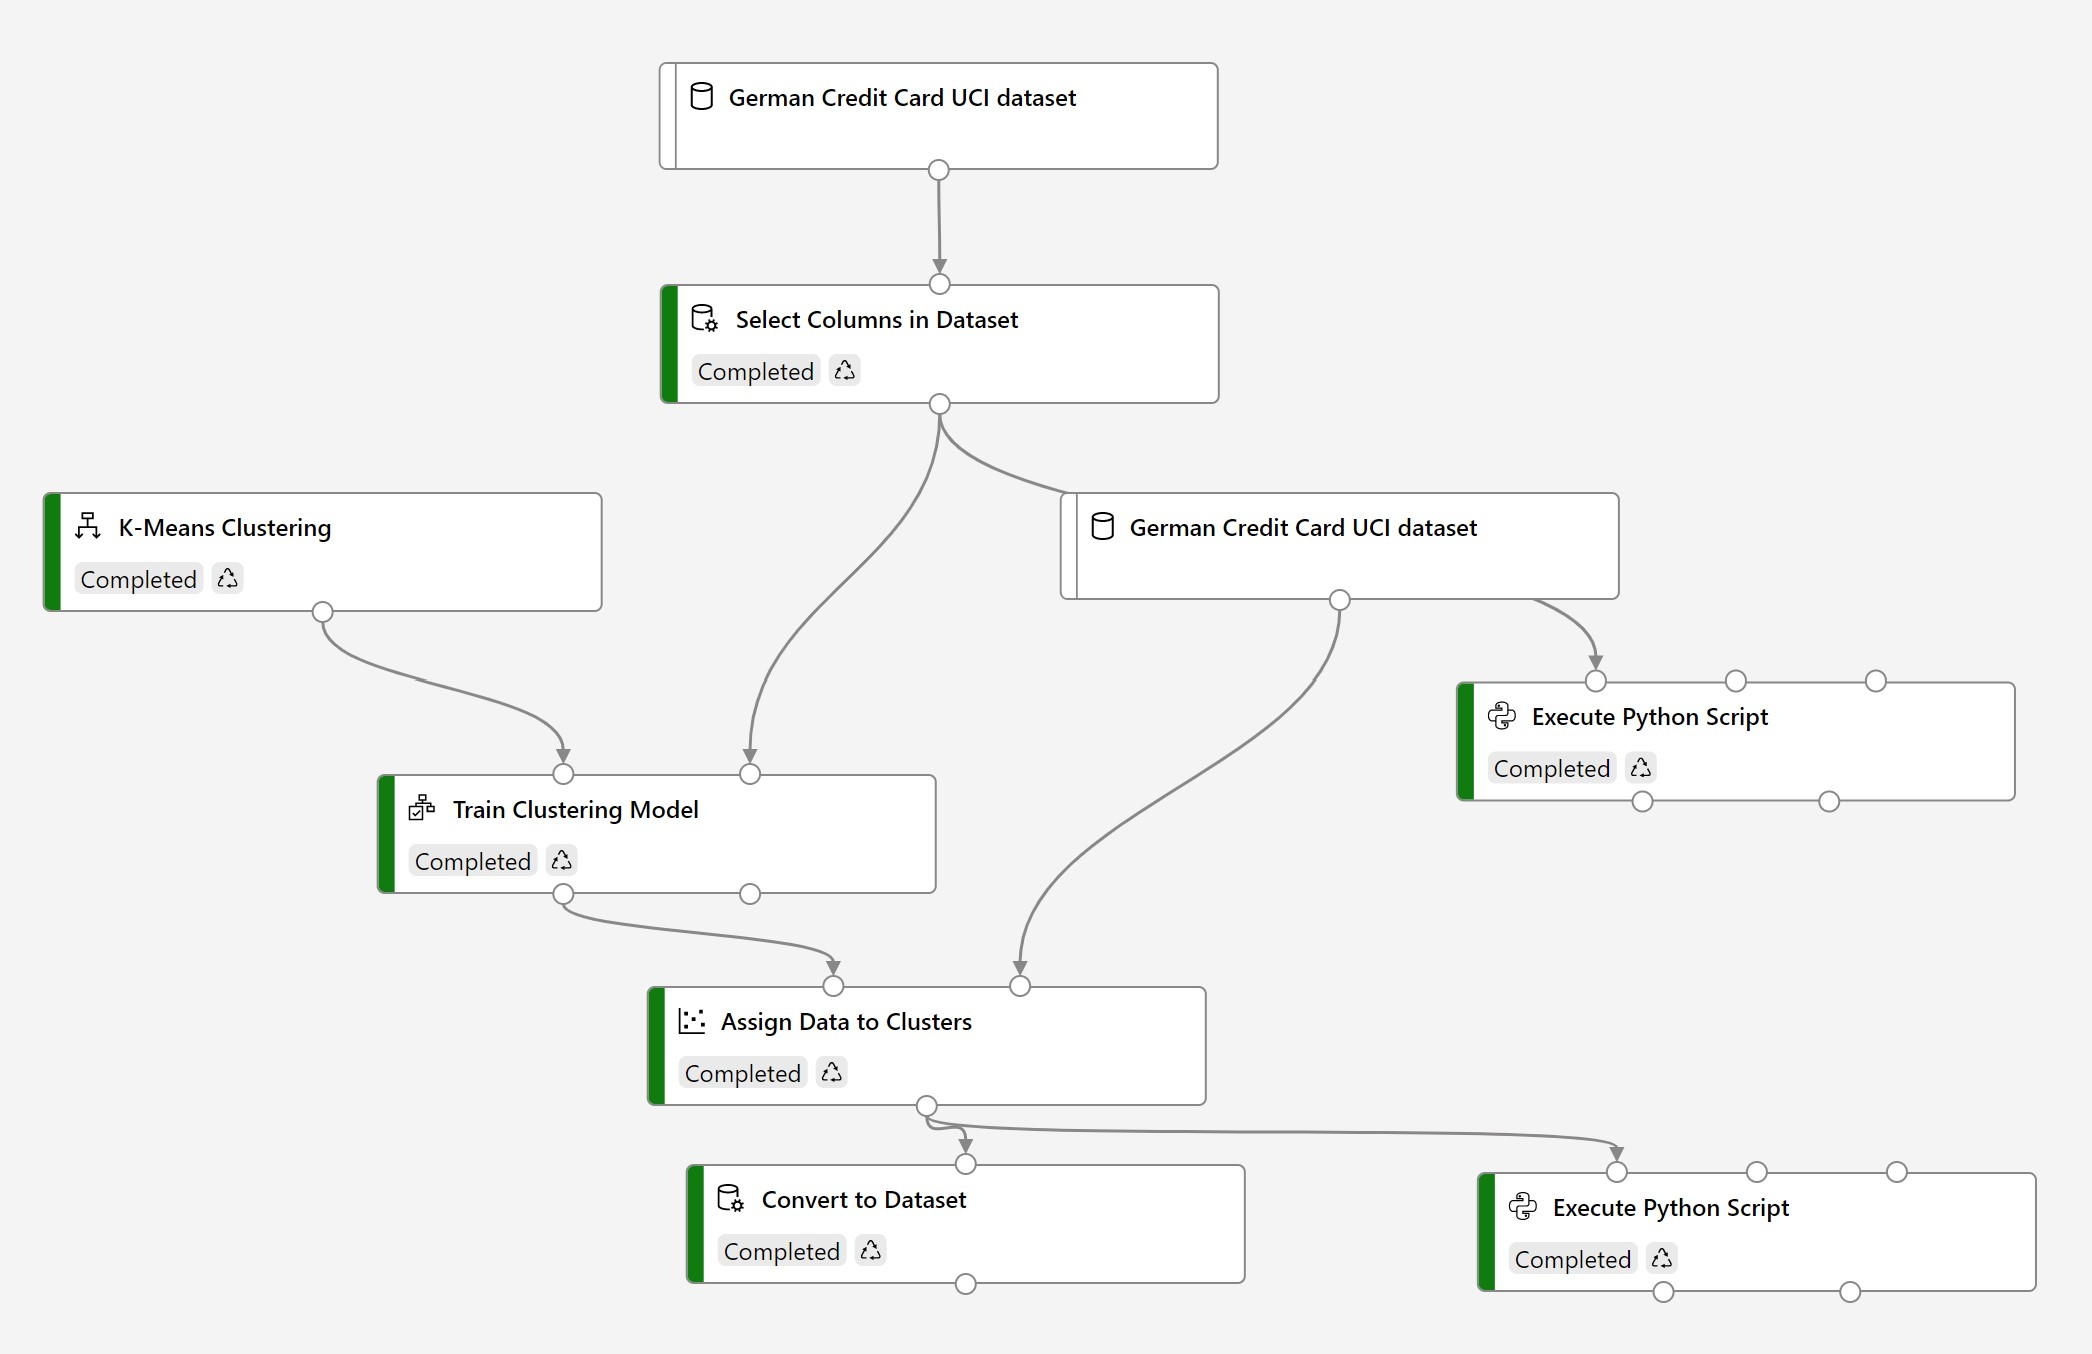
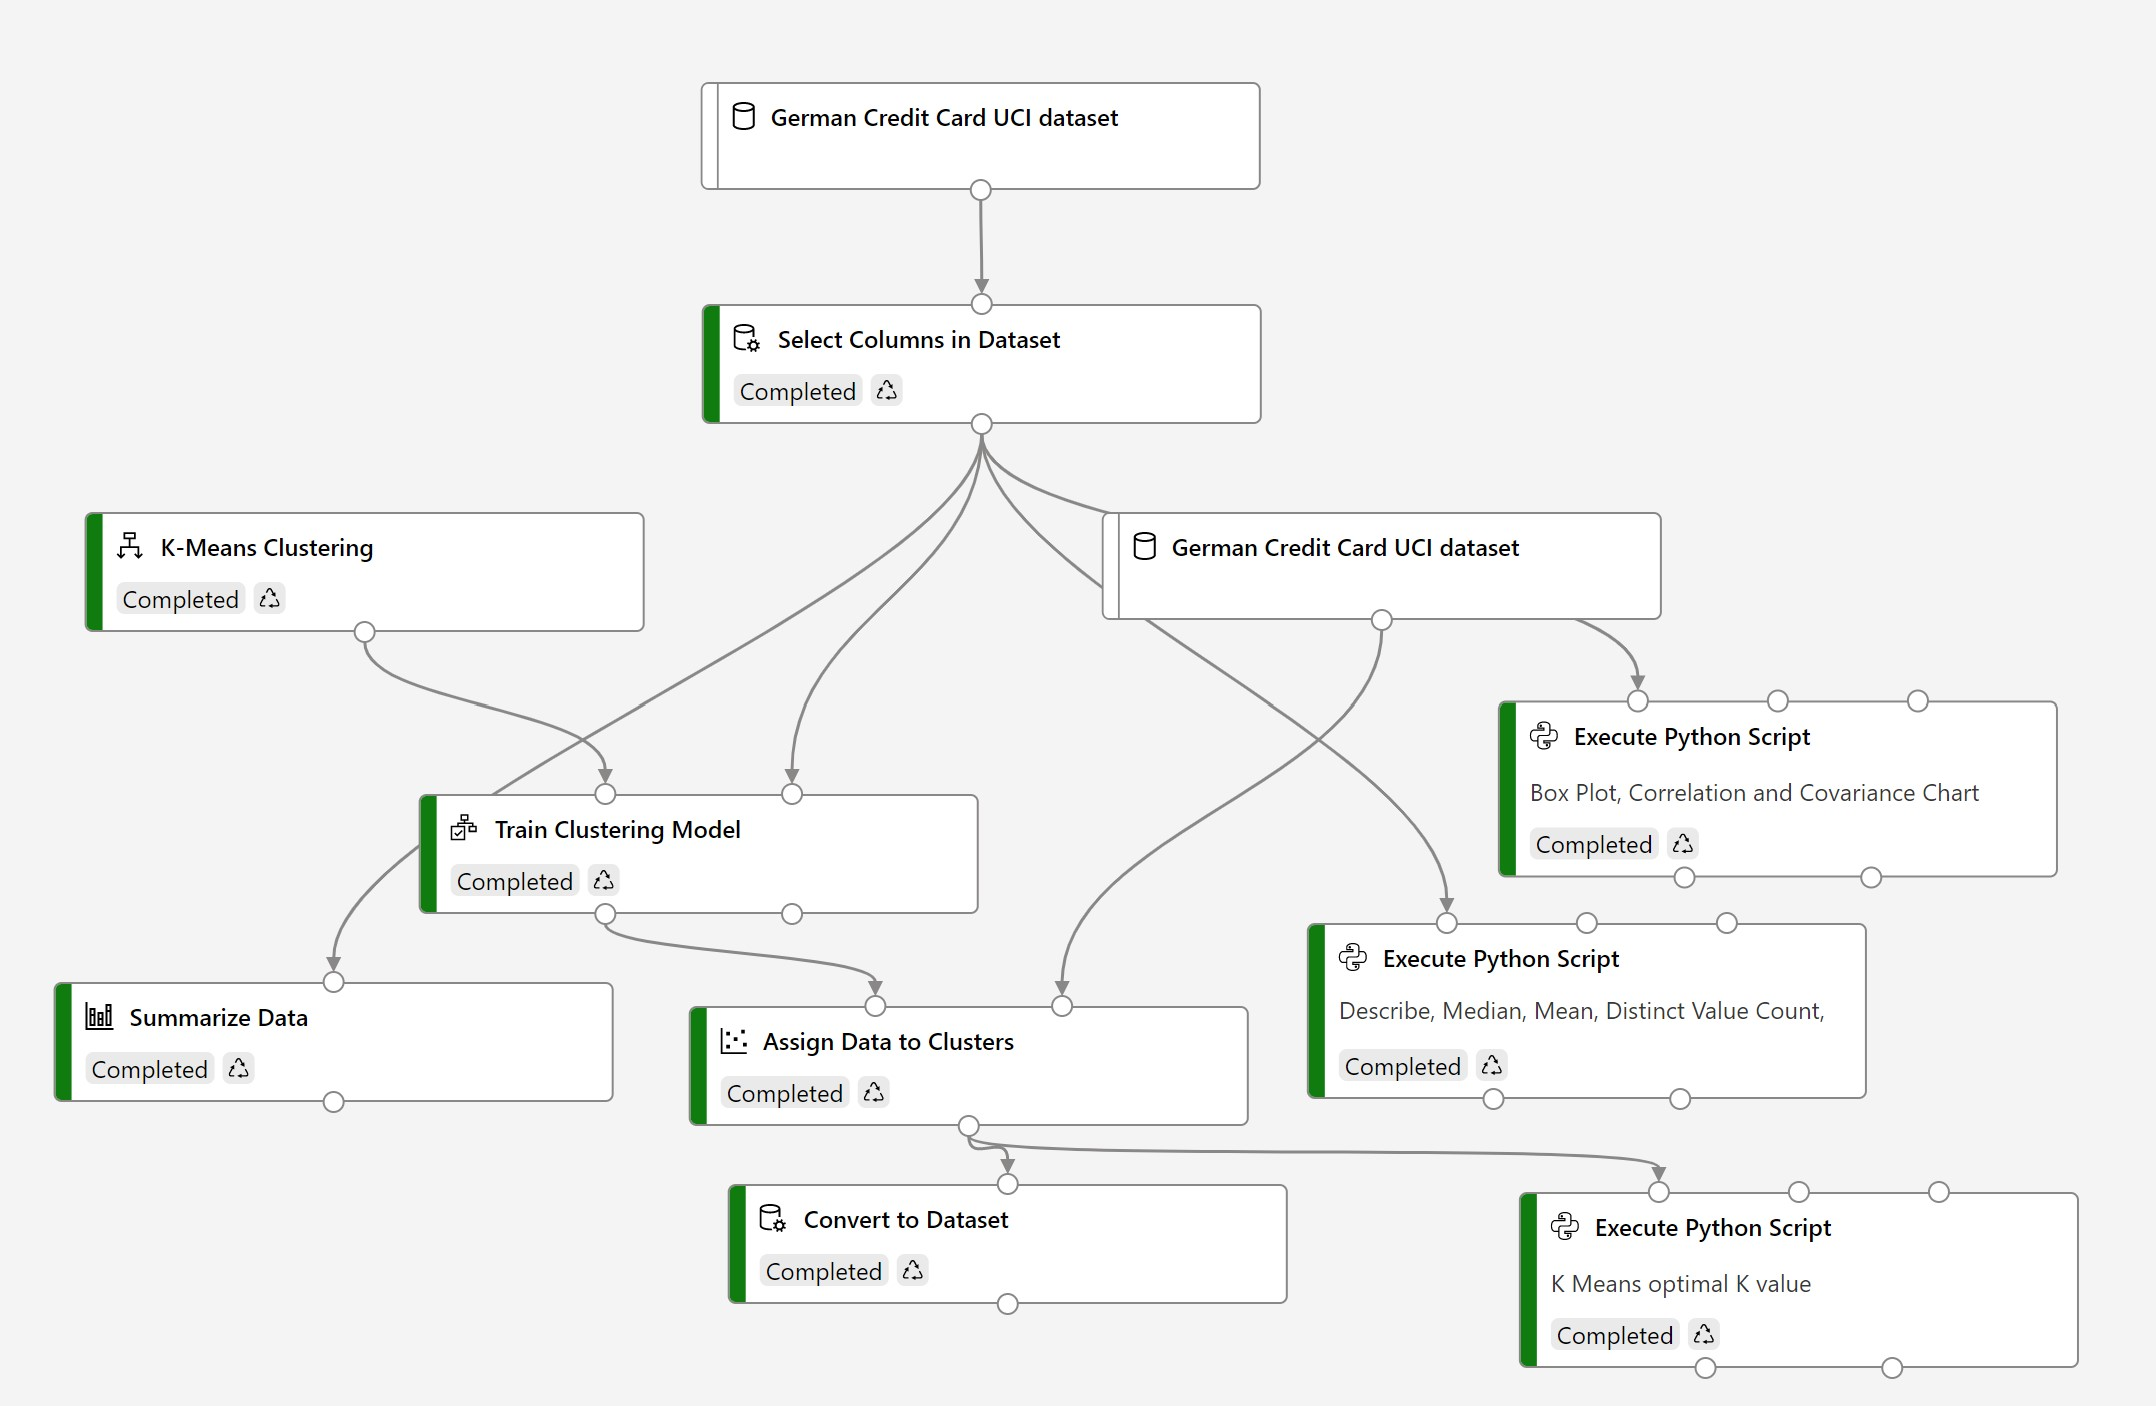
updated

diff --git a/AzureML/azuremldesigncluster.md b/AzureML/azuremldesigncluster.md
@@ -29,6 +29,9 @@
 - Code has both covariance and correlation matrix
 
 ```
+# The script MUST contain a function named azureml_main
+# which is the entry point for this module.
+
 # imports up here can be used to
 import pandas as pd
 
@@ -70,6 +73,16 @@ def azureml_main(dataframe1 = None, dataframe2 = None):
     img_file = "covchart1.png"
     plt.savefig(img_file)
 
+    from azureml.core import Run
+    run = Run.get_context(allow_offline=True)
+    run.upload_file(f"graphics/{img_file}", img_file)
+    
+    
+    fig, axs = plt.subplots(figsize=(12, 4))        # Create an empty matplotlib Figure and Axes
+    # dataframe1.plot.area(ax=axs)                   # Use pandas to put the area plot on the prepared Figure/Axes
+    dataframe1.plot.box(ax=axs)  
+    img_file = "boxplot.png"        # Do any matplotlib customization you like
+    fig.savefig(img_file) 
     from azureml.core import Run
     run = Run.get_context(allow_offline=True)
     run.upload_file(f"graphics/{img_file}", img_file)
@@ -153,6 +166,10 @@ def azureml_main(dataframe1 = None, dataframe2 = None):
 - Replace with below code
 
 ```
+# The script MUST contain a function named azureml_main
+# which is the entry point for this module.
+
+# imports up here can be used to
 import numpy as np
 import pandas as pd
 #from pandas_profiling import ProfileReport
@@ -172,20 +189,29 @@ def azureml_main(dataframe1 = None, dataframe2 = None):
     # to sys.path. Therefore, if your zip file contains a Python file
     # mymodule.py you can import it using:
     # import mymodule
-    print(dataframe1.describe())
-    dataframe1.agg(
+    print(" \nDescribe stats : \n\n", dataframe1.describe())
+    print(" \nGroup by aggre : \n\n", dataframe1.agg(
         {
             "Col5": ["min", "max", "median", "skew"],
             "Col2": ["min", "max", "median", "mean"],
         }
-    )
-    print(dataframe1[["Col5", "Col2"]].median())
-    print(dataframe1[["Col5", "Col2"]].mean())
-    print(dataframe1["Col4"].value_counts())
+    ))
+    print(" \nCount median value count for col5, Col2 : \n\n", dataframe1[["Col5", "Col2"]].median())
+    print(" \nCount mean value count for col5, Col2 : \n\n", dataframe1[["Col5", "Col2"]].mean())
+    print(" \nCount distinct value count for col4 : \n\n", dataframe1["Col4"].value_counts())
+    # Count total NaN at each column in a DataFrame
+    print(" \nCount total NaN at each column in a DataFrame : \n\n", dataframe1.isnull().sum())
 
+    percent_missing = dataframe1.isnull().sum() * 100 / len(dataframe1)
+    missing_value_df = pd.DataFrame({'column_name': dataframe1.columns,
+                                    'percent_missing': percent_missing})
+    print(missing_value_df)
     # Return value must be of a sequence of pandas.DataFrame
     # E.g.
     #   -  Single return value: return dataframe1,
     #   -  Two return values: return dataframe1, dataframe2
     return dataframe1,
 ```
+
+- Drag and drop Summarize Data
+- Will generate statistics for dataframe
